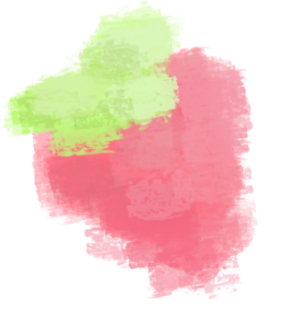
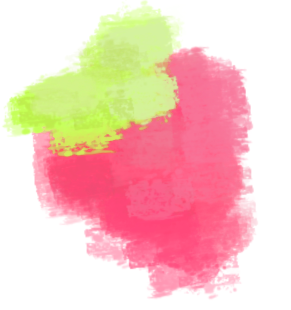
finalizing for clean event

diff --git a/style.css b/style.css
@@ -34,7 +34,7 @@ body {
     padding: 4px;
     margin: auto;
 
-    filter: drop-shadow(0 0 2px white) hue-rotate(180deg);
+    /* filter: drop-shadow(0 0 2px white) hue-rotate(180deg); */
     -webkit-user-drag: none;
     -webkit-user-select: none;
 
